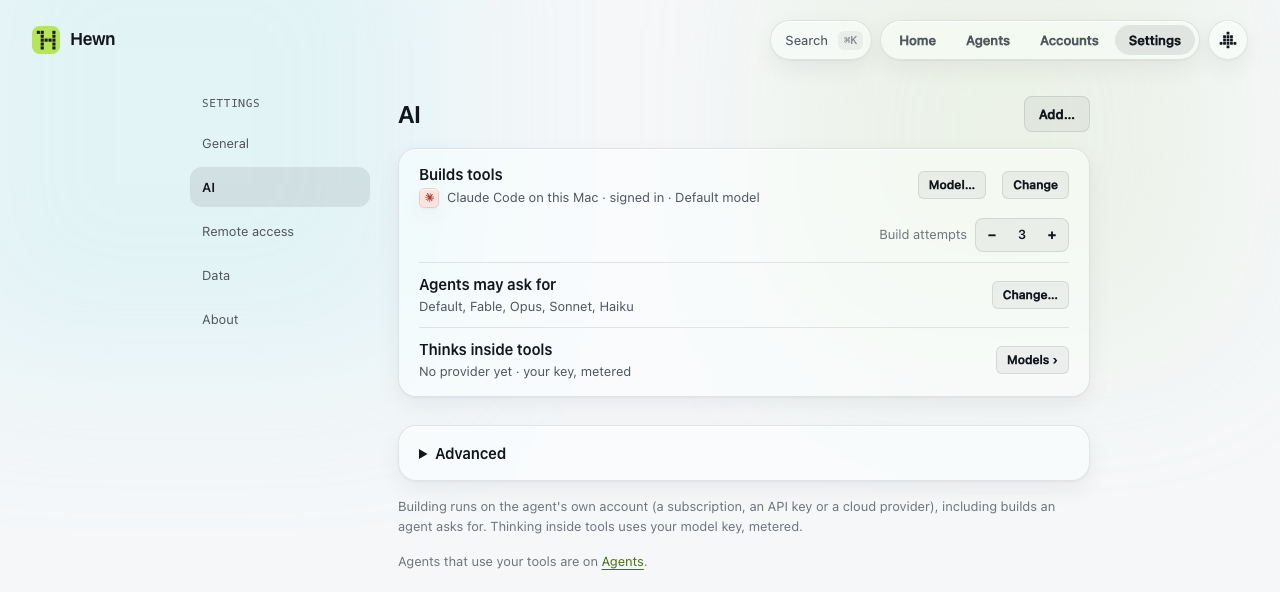
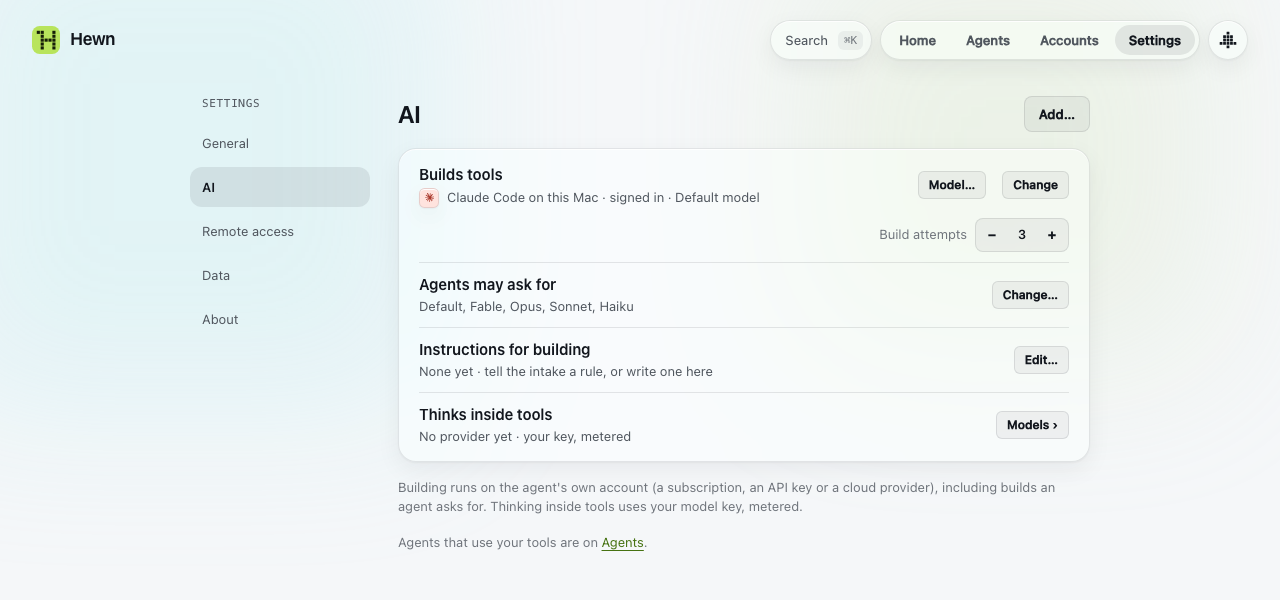
Docs: screenshots for 0.4.6, and the script that takes them (#17)
The five docs screenshots that 0.4.6 changed, retaken: the first run, Settings › AI (now with **Instructions for building**), a tool's Info page (its **Instructions** row), the Bike Care spec proposal (the box has **Attach**), and a failed build (**Conversation** above **Spec agreed**). Their alt texts say so. The other screenshots show pages 0.4.6 didn't change.

`test/e2e/docs-shots.ts` is the script: a test host with a stub builder (the Running Log seed, renamed) and a stub intake (the Bike Care draft), driven with the Playwright headless shell; writes `/tmp/shots/*.png`. Not part of `npm test`.

diff --git a/test/e2e/docs-shots.ts b/test/e2e/docs-shots.ts
@@ -1,0 +1,193 @@
+// SPDX-License-Identifier: AGPL-3.0-or-later
+// The docs screenshots that the UI changes touch, from a test host with a stub builder and intake:
+// PLAYWRIGHT_NODE_MODULES=<playwright-core dir> node test/e2e/docs-shots.ts → /tmp/shots/*.png, then copy into docs/images/.
+import { cpSync, mkdtempSync, rmSync, writeFileSync, mkdirSync } from "node:fs";
+import { createRequire } from "node:module";
+import { tmpdir } from "node:os";
+import { join } from "node:path";
+import type { CapabilityBuilder } from "@hewntools/cli/builders/types.ts";
+import { openHome } from "@hewntools/cli/home.ts";
+import { startSupervisor } from "@hewntools/cli/supervisor/index.ts";
+import { findBrowser } from "@hewntools/cli/visual.ts";
+import { editJson, SEED } from "../helpers.ts";
+import { freePort } from "../workerd-helpers.ts";
+
+const OUT = "/tmp/shots";
+mkdirSync(OUT, { recursive: true });
+const pw = createRequire(process.env.PLAYWRIGHT_NODE_MODULES ?? import.meta.url)("playwright-core");
+const root = mkdtempSync(join(tmpdir(), "hewn-shots-"));
+const port = await freePort();
+
+const TOOLS: Record<string, { name: string; purpose: string }> = {
+  "running-log": { name: "Running Log", purpose: "Keep a running history that any approved agent can record into and summarize." },
+  "plant-care": { name: "Plant Care", purpose: "Which plants need water today, and what each one got." },
+};
+const builds: Record<string, number> = {};
+const builder: CapabilityBuilder = {
+  name: "claude",
+  build: async (job) => {
+    builds[job.capabilityId] = (builds[job.capabilityId] ?? 0) + 1;
+    cpSync(SEED, job.workspace, { recursive: true });
+    editJson(join(job.workspace, "capability.json"), (m) => {
+      m.id = job.capabilityId;
+      m.name = TOOLS[job.capabilityId]?.name ?? job.capabilityId;
+      m.purpose = TOOLS[job.capabilityId]?.purpose ?? m.purpose;
+    });
+    // Plant Care's change: three test cases, one of which the code doesn't satisfy.
+    if (job.capabilityId === "plant-care" && builds[job.capabilityId] > 1) {
+      writeFileSync(
+        join(job.workspace, "tests/cases.json"),
+        JSON.stringify([
+          { name: "empty summary", operation: "get_summary", input: {}, expect: { runCount: 0, totalDistanceKm: 0, averageDistanceKm: null, averagePaceSecondsPerKm: null } },
+          { name: "lists nothing at first", operation: "list_runs", input: {}, expect: { runs: [] } },
+          { name: "widget lists plants never watered", operation: "list_runs", input: {}, expect: { template: "list", items: [{ title: "Fern" }] } },
+        ]),
+      );
+    }
+  },
+};
+const BIKE = {
+  kind: "draft" as const,
+  message: "One tool: rides with the weather they were ridden in, and the chain's service interval, with a reminder on Sunday evenings when it's due.",
+  draft: {
+    name: "Bike Care",
+    purpose: "Log bike rides and remember when the chain needs oiling.",
+    requirements:
+      "Operations: log_ride (date, km, minutes; fetches that hour's weather from api.open-meteo.com for the ride's location), list_rides (newest first, with weather), mark_oiled (today, or a date), service_due (km since the last oiling against the interval), delete_ride.\nState: rides, oilings, the service interval (default 300 km).\nWidget: Since last oiling (km and days; turns amber past the interval).\nTests: the interval maths, a ride without weather, the widget's empty state.",
+    spec: {
+      operations: [
+        { name: "log_ride", sideEffect: "write" as const },
+        { name: "list_rides", sideEffect: "read" as const },
+        { name: "mark_oiled", sideEffect: "write" as const },
+        { name: "service_due", sideEffect: "read" as const },
+        { name: "delete_ride", sideEffect: "destructive" as const },
+      ],
+      uses: [],
+      hosts: ["api.open-meteo.com"],
+      secrets: [],
+      widgets: ["Since last oiling"],
+    },
+    schedules: [{ operation: "service_due", cadence: "weekly sun 18:00", why: "Sunday evening, before the week's rides" }],
+  },
+};
+// Both agents found on this Mac, neither connected yet (what the first run shows).
+const harness = (agentId: string, label: string) => ({ agentId, label, pointerRequired: false, pointerNote: "", detect: () => true, registered: () => false, steps: () => [], login: () => [], loginFix: () => "" });
+const sv = await startSupervisor({
+  home: openHome(root),
+  setup: { harnesses: () => [harness("claude-code", "Claude Code"), harness("codex", "Codex")] as any, userHome: root, appInstalled: () => false },
+  port,
+  publicPort: await freePort(),
+  builders: { claude: builder },
+  intake: () => async () => BIKE as any,
+  log: () => {},
+  keySource: "file",
+  browser: "",
+  tools: () => [
+    { name: "claude" as const, label: "Claude Code", found: true, loggedIn: true },
+    { name: "codex" as const, label: "Codex", found: true, loggedIn: true },
+  ],
+});
+const web = `http://hewn.localhost:${port}`;
+const browser = await pw.chromium.launch({ executablePath: findBrowser() });
+const page = await browser.newPage({ viewport: { width: 1280, height: 800 } });
+const post = (path: string, body: unknown) =>
+  page.evaluate(
+    async ([path, body]: readonly [string, unknown]) => {
+      const res = await fetch(`/api${path}`, { method: "POST", headers: { "x-hewn-ui": "1", "content-type": "application/json" }, body: JSON.stringify(body) });
+      return res.json();
+    },
+    [path, body] as const,
+  );
+const settle = async (buildId: string) => {
+  for (let i = 0; i < 120; i++) {
+    const b = (await sv.admin("call", { method: "getBuild", args: [buildId] })).result;
+    if (["promoted", "failed", "cancelled", "review"].includes(b.status)) return b;
+    await new Promise((r) => setTimeout(r, 500));
+  }
+  throw new Error(`build ${buildId} didn't settle`);
+};
+const shot = async (name: string, opts: { width: number; height: number; clip?: { x: number; y: number; width: number; height: number } }) => {
+  await page.setViewportSize({ width: opts.width, height: opts.height });
+  await page.waitForTimeout(400);
+  await page.screenshot({ path: join(OUT, `${name}.png`), ...(opts.clip ? { clip: opts.clip } : {}) });
+  console.log("✔", name, opts.clip ? `${Math.round(opts.clip.width)}×${Math.round(opts.clip.height)}` : `${opts.width}×${opts.height}`);
+};
+
+try {
+  // 1. The first run: both agents found, nobody chosen yet.
+  const { ticket } = await sv.admin("web-ticket", {});
+  await page.goto(`${web}/auth?ticket=${ticket}`);
+  await page.getByText("Make your own tools.").waitFor();
+  await page.getByText("Codex").first().waitFor();
+  await page.getByText("Found").first().waitFor();
+  await shot("first-run", { width: 1280, height: 800 });
+
+  // 2. Settings › AI, with Claude Code chosen.
+  await sv.admin("settings", { builder: "claude", intake: "claude", maxBuildAttempts: 3 });
+  // The owner chose Claude Code for both jobs (what the picker saves).
+  await page.evaluate(async () => {
+    await fetch("/api/settings", { method: "PUT", headers: { "x-hewn-ui": "1", "content-type": "application/json" }, body: JSON.stringify({ builder: "claude", intake: "claude", jobsChosen: ["builder", "intake"] }) });
+  });
+  await page.goto(`${web}/#/settings/ai`);
+  await page.getByText("Builds tools").first().waitFor();
+  await page.getByText(/Instructions/).first().waitFor();
+  await page.waitForTimeout(300);
+  const aiH = await page.evaluate(() => Math.ceil(document.documentElement.scrollHeight));
+  await shot("settings-ai", { width: 1280, height: 600 });
+
+  // 3. A tool's Info page: Running Log at v2.
+  const b1 = await post("/capabilities", { name: TOOLS["running-log"].name, purpose: TOOLS["running-log"].purpose, requirements: "record runs" });
+  await settle(b1.buildId);
+  const b2 = await post("/capabilities/running-log/modify", { request: "add delete_run" });
+  await settle(b2.buildId);
+  await page.goto(`${web}/#/c/running-log`);
+  await page.locator(".info-row", { hasText: "Versions" }).waitFor();
+  await page.waitForTimeout(300);
+  const infoH = await page.evaluate(() => Math.ceil(document.documentElement.scrollHeight));
+  await shot("tool-info", { width: 1280, height: 700 });
+
+  // 4. The spec proposal: Bike Care, in the create chat.
+  await page.setViewportSize({ width: 1280, height: 1000 });
+  await page.goto(`${web}/#/new`);
+  const box = page.locator(".composer textarea, .composer-input textarea, textarea").first();
+  await box.waitFor();
+  await box.fill("A tracker for my bike: rides, and remind me when the chain needs oiling.");
+  await box.press("Enter");
+  await page.locator(".proposal-row").waitFor({ timeout: 30_000 });
+  await page.waitForTimeout(500);
+  const boxes = await page.evaluate(() => {
+    const r = (el: Element | null) => el?.getBoundingClientRect();
+    const thread = r(document.querySelector(".thread"));
+    const composer = r(document.querySelector(".composer"));
+    const card = r(document.querySelector(".proposal-row")?.closest(".card") ?? document.querySelector(".proposal-row"));
+    return { thread, composer, card, scrollY: window.scrollY };
+  });
+  console.log("   boxes", JSON.stringify(boxes));
+  const left = Math.min(boxes.thread!.left, boxes.composer!.left) - 16;
+  const right = Math.max(boxes.thread!.right, boxes.composer!.right) + 16;
+  const top = Math.max(0, boxes.thread!.top - 40);
+  const bottom = boxes.composer!.bottom + 20;
+  await shot("spec-proposal", { width: 1280, height: 1000, clip: { x: left, y: top + boxes.scrollY, width: right - left, height: bottom - top } });
+
+  // 5. A failed change to Plant Care: 1 of 3 tests didn't pass.
+  const p1 = await post("/capabilities", { name: TOOLS["plant-care"].name, purpose: TOOLS["plant-care"].purpose, requirements: "plants and watering" });
+  await settle(p1.buildId);
+  await sv.admin("settings", { builder: "claude", intake: "claude", maxBuildAttempts: 1 });
+  const p2 = await post("/capabilities/plant-care/modify", { request: "A widget that lists the plants never watered.", conversation: [{ role: "user", content: "A widget that lists the plants never watered." }] });
+  const failed = await settle(p2.buildId);
+  console.log("   plant-care change:", failed.status);
+  await page.setViewportSize({ width: 1280, height: 1000 });
+  await page.goto(`${web}/#/b/${p2.buildId}`);
+  await page.getByText(/didn't pass/).first().waitFor({ timeout: 30_000 });
+  await page.waitForTimeout(500);
+  const card = await page.evaluate(() => {
+    const el = document.querySelector(".build-head")?.closest(".card") ?? document.querySelector(".build-center > *");
+    const r = el!.getBoundingClientRect();
+    return { x: r.left, y: r.top + window.scrollY, width: r.width, height: r.height };
+  });
+  await shot("build-failed", { width: 1280, height: 1000, clip: { x: card.x - 20, y: card.y - 20, width: card.width + 40, height: card.height + 40 } });
+} finally {
+  await browser.close();
+  await sv.stop();
+  rmSync(root, { recursive: true, force: true });
+}

diff --git a/docs/building-tools.md b/docs/building-tools.md
@@ -12,7 +12,7 @@ Paste a screenshot (Ctrl+V / ⌘V), drop files on the box, or **Attach**: a scre
 
 The agent that [builds your tools](concepts.md#hewns-two-jobs) (Settings › AI) first talks it through: it asks until the request is clear (when you'd use it, what it keeps, the main action), each question with the default it would assume, so "ok" answers them all; **Draft now** skips the rest and takes its assumptions, listed with the proposal. Then it makes a **spec proposal**: the tool, what it will do, what it needs (a site to reach, a key, another tool, a model: its [grants](concepts.md#grants)), and any widgets or [schedules](concepts.md#schedules). A big request can become a few small tools that work together; untick the ones you don't want. Reply to change it, or press **Build** (it says how many tools: "Build 1 tool").
 
-![A spec proposal for one tool, Bike Care: what it's for, that it needs api.open-meteo.com, its five operations, a weekly schedule to approve and a widget, with Keep talking and Build 1 tool](images/spec-proposal.png)
+![A spec proposal for one tool, Bike Care: what it's for, that it needs api.open-meteo.com, its five operations, a weekly schedule to approve and a widget, with Keep talking and Build 1 tool; the box below has Attach](images/spec-proposal.png)
 
 You can also ask an agent ("make me a reading list in Hewn"), if you allowed it to make tools ([scopes](agents.md#what-agents-can-do)). It shows up the same way.
 
@@ -59,7 +59,7 @@ The build says why: a failing test, an invalid manifest, an error on its screen.
 
 A build gets up to three attempts on its own (Settings › AI › Build attempts). A later attempt picks up where the builder left off, with the failure, instead of starting over, so it takes a fraction of the first.
 
-![A failed build: 1 of 3 tests didn't pass, the test that failed, Ask builder to fix and Retry, and the log open below with what the test expected and what it got](images/build-failed.png)
+![A failed build: 1 of 3 tests didn't pass, the test that failed, the Conversation and Spec agreed expanders, Ask builder to fix and Retry, and the log open below with what the test expected and what it got](images/build-failed.png)
 
 If the builder itself can't work (signed out, out of usage), Hewn stops instead of retrying. Sign it in again (`claude` or `codex login`), then try again.
 

diff --git a/docs/using-hewn.md b/docs/using-hewn.md
@@ -61,7 +61,7 @@ The **Change it** box asks for a change ([Building tools](building-tools.md#chan
 
 **When something in a tool fails** (an operation in its own screen, a run from Info, a widget that can't refresh, a schedule's run), Hewn offers **Ask builder to fix this**. It opens a change to the tool with what failed already written in: the operation, the error, its input and the last log lines. Read it, add anything you know, and send it. Hewn keeps a tool's last ten failed calls for this.
 
-![Running Log's Info page: its status and version, the Change it box, and the Operations, Allowed to, Schedules, Widgets and Versions rows](images/tool-info.png)
+![Running Log's Info page: its status and version, the Change it box, and the Operations, Allowed to, Schedules, Widgets, Instructions and Versions rows](images/tool-info.png)
 
 ### Schedules
 
@@ -92,7 +92,7 @@ Call logs are kept for two weeks by default (Settings › Data).
 - **Data:** backups and their folder, how long call logs are kept, and deleted tools ([Your data](data.md)).
 - **About:** the version, whether a newer one is out (with the command to upgrade), and shortcuts.
 
-![Settings › AI: Builds tools set to Claude Code on the default model, the models agents may ask for, and Thinks inside tools with no provider yet](images/settings-ai.png)
+![Settings › AI: Builds tools set to Claude Code on the default model, the models agents may ask for, Instructions for building (none yet), and Thinks inside tools with no provider yet](images/settings-ai.png)
 
 ## On a phone
 
